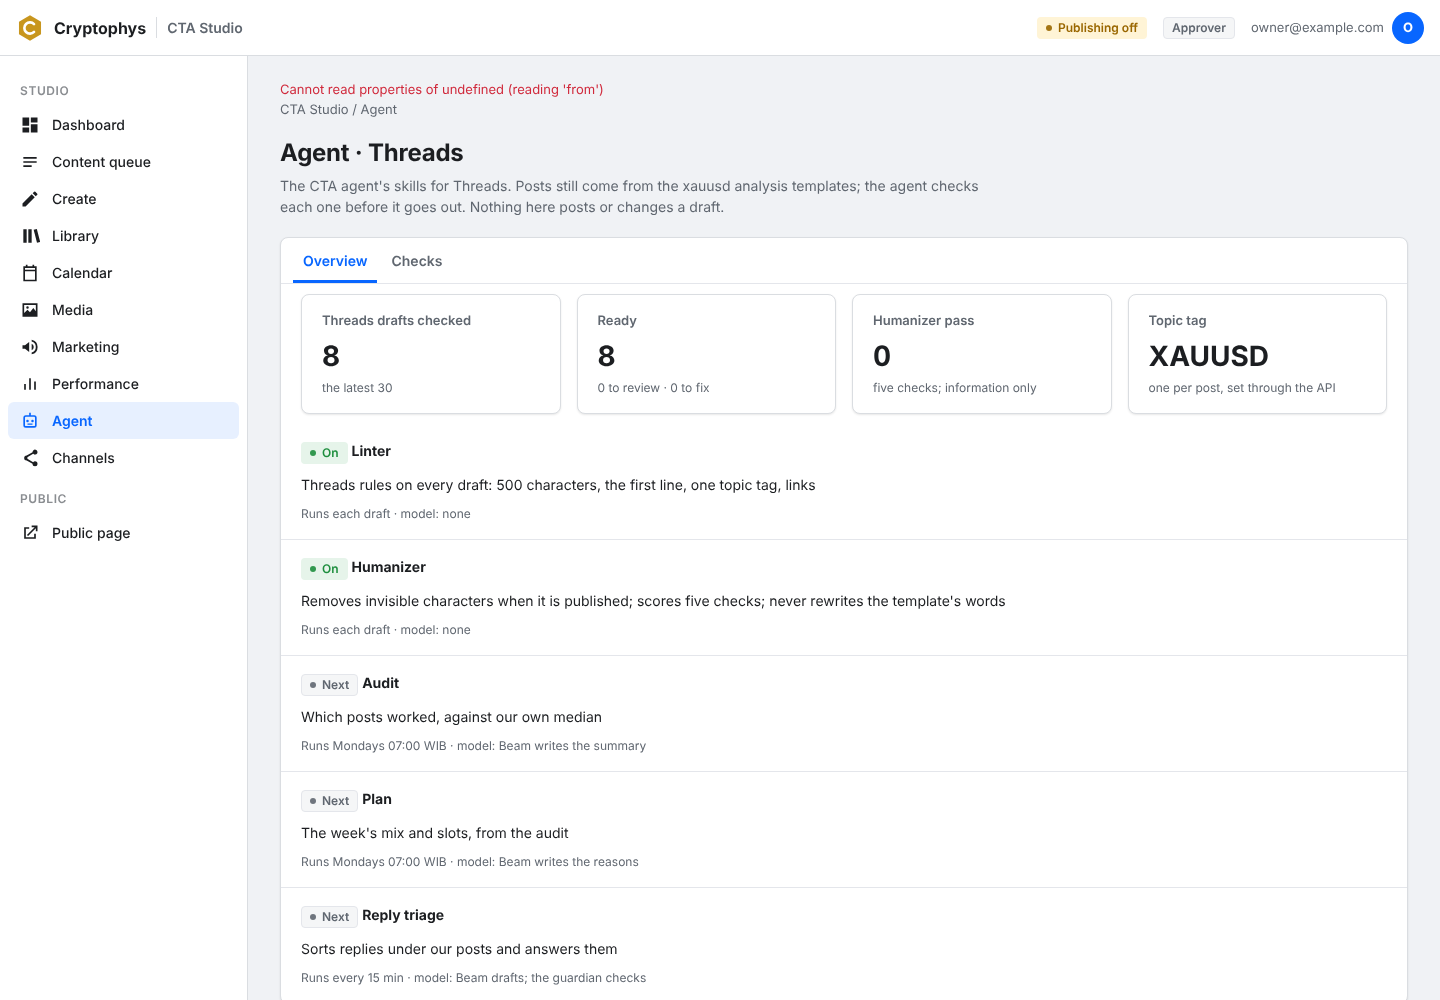
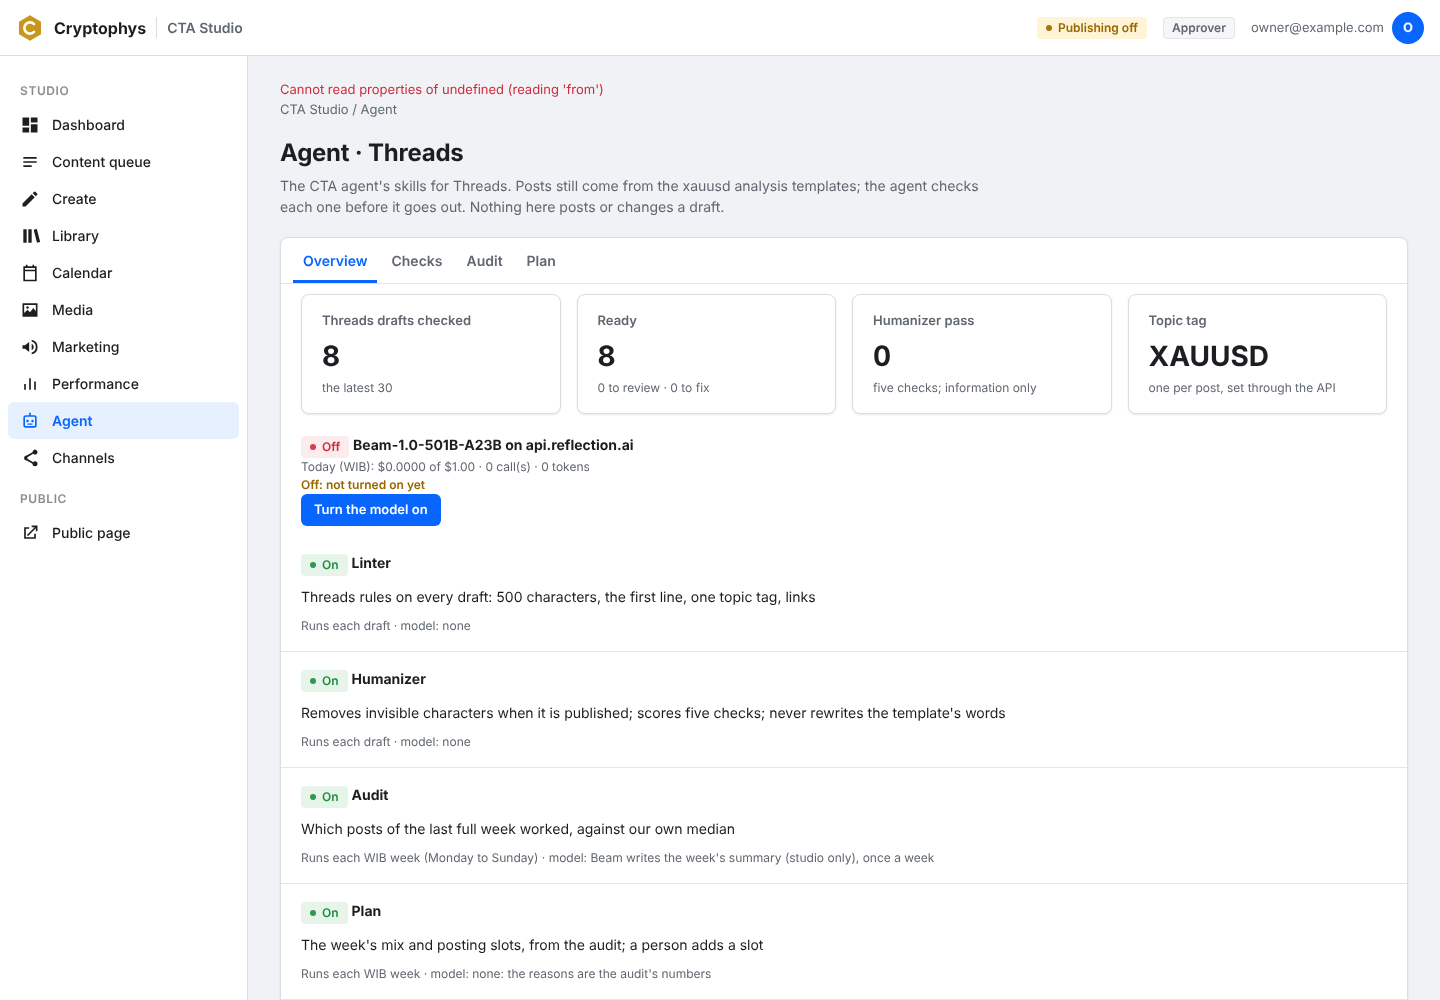
feat(agent): the model router to Reflection's Beam, off until turned on (#78)
This is PR 3 of the CTA agent. The owner asked, 25 Nov, for "agent cta pakai router" on https://platform.reflection.ai/ (Beam), then said "setuju semua". Following the orchestrator review, the router is off by default.

- src/agent/router.mjs: one OpenAI-compatible endpoint, set by MODEL_BASE_URL and MODEL_ID.
  - The key is REFLECTION_API_KEY, a Worker secret set through the platform.
  - It stays off until an approver turns it on in the studio.
  - It holds a $1 daily cap over the WIB day, uses low reasoning effort and respects Reflection's 429 and 403 answers.
  - Contributor retention discards the answer and turns the router off.
  - Every call is logged in model_calls, never its text.
- src/agent/weekly.mjs: the Audit's weekly summary, shown only in the studio. It is filtered for numbers and trading words.
- Tests AG6, AG7 and the switch test.

Claude-Session: https://claude.ai/code/session_01KGEN4kuWc85UwVcwwV2Z6T

diff --git a/public/studio/studio.js b/public/studio/studio.js
@@ -1141,6 +1141,7 @@
       t.appendChild(tile("Ready", String(a.summary.ready), `${a.summary.review} to review · ${a.summary.fix} to fix`));
       t.appendChild(tile("Humanizer pass", String(a.summary.human_pass), "five checks; information only"));
       t.appendChild(tile("Topic tag", a.topic_tag, "one per post, set through the API"));
+      renderModel(a.model, a.can_edit);
       const sk = $("agentskills"); sk.textContent = "";
       // A list, not a table: it fits a phone (each skill, its state, then what it does, when and with which model).
       const list = make("div", "list");
@@ -1175,10 +1176,30 @@
       renderPlan(a.plan, a.can_edit);
     } catch (e) { showErr(e); }
   }
+  // The model router (src/agent/router.mjs): today's spend against the cap, the switch, the latest calls.
+  const usd = (n, d = 4) => `$${Number(n).toFixed(d)}`;
+  function renderModel(m, canEdit) {
+    const box = $("agentmodel"); box.textContent = "";
+    if (!m) return;
+    const head = make("div");
+    head.append(badge(!m.has_key ? "" : m.enabled ? "green" : "red", !m.has_key ? "No key" : m.enabled ? "On" : "Off"), " ", make("b", null, `${m.model} on ${m.host}`));
+    box.appendChild(head);
+    box.appendChild(make("div", "meta", `Today (WIB): ${usd(m.today.cost_usd)} of ${usd(m.cap_usd, 2)} · ${m.today.calls} call(s) · ${m.today.tokens_in + m.today.tokens_out} tokens`));
+    if (!m.has_key) box.appendChild(make("div", "meta", "The key (REFLECTION_API_KEY) is set as a Worker secret through the platform; until then the agent uses no model."));
+    if (m.reason) box.appendChild(make("div", "meta warn", `Off: ${m.reason}${m.switched_by ? ` (${m.switched_by}, ${when(m.switched_at)})` : ""}`));
+    for (const c of m.recent ?? []) box.appendChild(make("div", "meta", `${when(c.at)} · ${c.purpose} · ${c.status} · ${c.tokens_in + c.tokens_out} tokens · ${usd(c.cost_usd)}${c.retention ? ` · retention ${c.retention}` : ""}`));
+    if (m.has_key) {
+      const b = make("button", m.enabled ? "btn outline sm" : "btn primary sm", m.enabled ? "Turn the model off" : "Turn the model on"); b.type = "button"; b.disabled = !canEdit;
+      if (!canEdit) b.title = "Approvers only";
+      b.addEventListener("click", async () => { b.disabled = true; try { await call("/api/studio/agent/model", "POST", { enabled: !m.enabled }); await loadAgent(); } catch (e) { showErr(e); b.disabled = false; } });
+      box.appendChild(b);
+    }
+  }
   // Audit: the last complete WIB week on Threads against our own median (src/agent/audit.mjs).
   function renderAudit(au) {
     const box = $("agentaudit"); box.textContent = "";
     if (!au) return;
+    if (au.summary) { const s = make("div", "notice info"); s.append(make("b", null, "Beam's summary: "), au.summary); box.appendChild(s); }
     box.appendChild(make("div", "meta", `Week ${au.week.from.slice(0, 10)} to ${au.week.to.slice(0, 10)} (WIB, Monday to Sunday) · median ${fmt(au.median_views)} views over the ${au.baseline_days} days before · ${au.measured} measured posts`));
     for (const f of au.findings) box.appendChild(make("p", null, f));
     if (!au.posts.length) return;

diff --git a/public/studio/index.html b/public/studio/index.html
@@ -134,7 +134,7 @@
           <button class="tab" type="button" role="tab" aria-selected="false" aria-controls="agent-audit" id="agenttab-audit" data-tab="audit" tabindex="-1">Audit</button>
           <button class="tab" type="button" role="tab" aria-selected="false" aria-controls="agent-plan" id="agenttab-plan" data-tab="plan" tabindex="-1">Plan</button>
         </div>
-        <div id="agent-overview" role="tabpanel" aria-labelledby="agenttab-overview"><div class="grid tiles pad" id="agenttiles"></div><div id="agentskills"></div></div>
+        <div id="agent-overview" role="tabpanel" aria-labelledby="agenttab-overview"><div class="grid tiles pad" id="agenttiles"></div><div class="pad" id="agentmodel"></div><div id="agentskills"></div></div>
         <div id="agent-checks" role="tabpanel" aria-labelledby="agenttab-checks" hidden><div class="list" id="agentchecks"></div></div>
         <div id="agent-audit" role="tabpanel" aria-labelledby="agenttab-audit" hidden><div class="pad" id="agentaudit"></div></div>
         <div id="agent-plan" role="tabpanel" aria-labelledby="agenttab-plan" hidden><div class="pad" id="agentplan"></div></div>

diff --git a/docs/SSOT.md b/docs/SSOT.md
@@ -75,7 +75,7 @@ Bindings:
 
 Entrypoints: `OrganismDna.dna()` (the platform census), `CtaHealth.health()` (drift checks).
 
-- **The CTA agent** (owner 2026-11-25: "pelajari dulu, kita perlu membuat agent cta pakai router ... Adopsi skills dan fiturnya ... fase pertama" Threads; "post sementara tetap dari xauusd, yg dideploy sekarang adalah skills seperti instagram agents"; "setuju semua, mulai dari Checks"; design note "CTA agent, phase 1: Threads" and mockup "CTA Studio: the Agent page"). The skills of instagram-agent-skill (MIT, Copyright (c) 2026 Jake Schincariol; `src/agent/LICENSE-instagram-agent-skill`) run inside this Worker for Threads; the posts still come from the xauusd templates, and no model writes them. Built so far, **Checks** (`src/agent/`): `threads-lint.mjs`, caption.py's rules retuned to Threads (500 characters with an emoji counted by its UTF-8 bytes, the first line, one topic tag, at most 5 links, mentions, emoji density, invisible characters, the em dash; READY, REVIEW or FIX); `humanizer.mjs`, a port of ig-human's detect.py (burstiness, specificity, slop density, fingerprint, voice; PASS, REVIEW or FLAGGED; information only, the templates' plain analytic voice scores REVIEW) and of humanize.py's invisible pass, over the unchanged lexicon `slop.mjs` (slop.json v1.0); `checks.mjs`, the studio's **Agent** page (`#agent`: Overview with the skills and their state, Checks with each of the latest 30 Threads drafts as Threads gets it). It never rewrites a word. Threads drafts carry no hashtag line any more (`HASHTAGS.threads` is empty; a stored Threads hashtag setting is ignored): `publishThreads` sends `topic_tag` XAUUSD (Threads keeps one topic tag a post and reads only the first in-text hashtag) and the text without a closing hashtag-only line, so drafts made before it lose their "#XAUUSD #gold #education", and without invisible characters. **Audit and Plan** (`src/agent/audit.mjs`, after ig-audit and ig-plan): the last complete WIB week (Monday to Sunday) of Threads posts, each judged by its views over the median of the 28 days before the week ended, by post and by kind, with a finding only where 3 posts stand behind it ("too few to call" otherwise); the plan ranks the kinds by that ("post more", "keep", "post less") and suggests daily posting slots at the WIB hours whose measured posts (2 or more in the last 28 days) drew the most views, minus the slots already set. "Add these slots to Threads" saves them through `POST /api/studio/settings` (an approver, same origin), with the reminder that an analysis draft expires 2 hours after it is made. Computed when the page opens, from the metrics already stored; no model yet. Next, each in its own PR: the router to Reflection's Beam (`api.reflection.ai`, a daily cap and a cost log, the key a Worker secret set through the platform), and Replies. Tests AG1 to AG5 and the Agent API test; screenshots `docs/screenshots/agent-checks/`.
+- **The CTA agent** (owner 2026-11-25: "pelajari dulu, kita perlu membuat agent cta pakai router ... Adopsi skills dan fiturnya ... fase pertama" Threads; "post sementara tetap dari xauusd, yg dideploy sekarang adalah skills seperti instagram agents"; "setuju semua, mulai dari Checks"; design note "CTA agent, phase 1: Threads" and mockup "CTA Studio: the Agent page"). The skills of instagram-agent-skill (MIT, Copyright (c) 2026 Jake Schincariol; `src/agent/LICENSE-instagram-agent-skill`) run inside this Worker for Threads; the posts still come from the xauusd templates, and no model writes them. Built so far, **Checks** (`src/agent/`): `threads-lint.mjs`, caption.py's rules retuned to Threads (500 characters with an emoji counted by its UTF-8 bytes, the first line, one topic tag, at most 5 links, mentions, emoji density, invisible characters, the em dash; READY, REVIEW or FIX); `humanizer.mjs`, a port of ig-human's detect.py (burstiness, specificity, slop density, fingerprint, voice; PASS, REVIEW or FLAGGED; information only, the templates' plain analytic voice scores REVIEW) and of humanize.py's invisible pass, over the unchanged lexicon `slop.mjs` (slop.json v1.0); `checks.mjs`, the studio's **Agent** page (`#agent`: Overview with the skills and their state, Checks with each of the latest 30 Threads drafts as Threads gets it). It never rewrites a word. Threads drafts carry no hashtag line any more (`HASHTAGS.threads` is empty; a stored Threads hashtag setting is ignored): `publishThreads` sends `topic_tag` XAUUSD (Threads keeps one topic tag a post and reads only the first in-text hashtag) and the text without a closing hashtag-only line, so drafts made before it lose their "#XAUUSD #gold #education", and without invisible characters. **Audit and Plan** (`src/agent/audit.mjs`, after ig-audit and ig-plan): the last complete WIB week (Monday to Sunday) of Threads posts, each judged by its views over the median of the 28 days before the week ended, by post and by kind, with a finding only where 3 posts stand behind it ("too few to call" otherwise); the plan ranks the kinds by that ("post more", "keep", "post less") and suggests daily posting slots at the WIB hours whose measured posts (2 or more in the last 28 days) drew the most views, minus the slots already set. "Add these slots to Threads" saves them through `POST /api/studio/settings` (an approver, same origin), with the reminder that an analysis draft expires 2 hours after it is made. Computed when the page opens, from the metrics already stored; no model yet. **The model router** (`src/agent/router.mjs`): one OpenAI-compatible Chat Completions endpoint, `MODEL_BASE_URL` (default Reflection's `https://api.reflection.ai/openai/v1`, https only) and `MODEL_ID` (default `Beam-1.0-501B-A23B`), the key in the Worker secret `REFLECTION_API_KEY` the owner sets through the platform (`organism.json` `secrets_kept`). Off until an approver turns it on in the studio (`POST /api/studio/agent/model`, studio setting `agent_model`, with who and when). A daily cap in dollars over the WIB day (`MODEL_DAILY_USD`, default 1) from each call's tokens at `MODEL_PRICE_IN` and `MODEL_PRICE_OUT` per million (defaults 0.40 and 1.20, the highest third-party listings; Reflection's prepaid credit is the second cap); `reasoning_effort` low; a 429 or 403 from Reflection stops the call; an answer under `reflection-data-retention: contributor` is thrown away and turns the model off. Every call is a row in the Desk's `model_calls` (tokens, cost, status, retention), never its prompt or answer; the Agent page shows today's spend against the cap and the latest calls. Its first use, **the Audit's weekly summary** (`src/agent/weekly.mjs`): at the daily run, once a WIB week, three sentences for the studio from the audit's own facts; a summary naming a number the facts do not hold, or a trading word, is thrown away. Studio-only text. Next: Replies, in its own PR. Tests AG1 to AG7, the Agent API test and the model switch test; screenshots `docs/screenshots/agent-checks/`.
 
 ## 2. Routes
 

diff --git a/docs/CHANGELOG.md b/docs/CHANGELOG.md
@@ -1,5 +1,16 @@
 # Changelog
 
+## 2026-11-25 (the CTA agent, PR 3: the model router)
+- feat(agent): the CTA agent's model router to Reflection's Beam (owner, 25 Nov: "agent cta pakai router", https://platform.reflection.ai/; "setuju semua").
+  - `src/agent/router.mjs`: one OpenAI-compatible endpoint (`MODEL_BASE_URL`, `MODEL_ID`), with the key in the Worker secret `REFLECTION_API_KEY` set through the platform.
+  - Off until an approver turns it on in the studio (`POST /api/studio/agent/model`).
+  - A $1 daily cap over the WIB day (`MODEL_DAILY_USD`); low reasoning effort; Reflection's 429 and 403 respected.
+  - An answer under contributor retention is thrown away and the model turns off.
+  - Every call is logged in the Desk's `model_calls` (tokens, cost, status, retention), never its text.
+  - First use: the Audit's weekly summary for the studio (`src/agent/weekly.mjs`). It is thrown away if it names a number the audit does not hold, or a trading word.
+  - The Agent page shows the switch, today's spend and the latest calls.
+  - Tests AG6, AG7 and the switch test. SSOT and the Overview screenshot.
+
 ## 2026-11-25 (the CTA agent, PR 2: Audit and Plan)
 - feat(agent): the Agent page gets Audit and Plan for Threads (`src/agent/audit.mjs`, after ig-audit and ig-plan, MIT). The owner approved them with "setuju semua".
   - Audit: the last full WIB week, each post by its views over our own 28-day median, by post and by kind. A finding needs 3 posts behind it.
